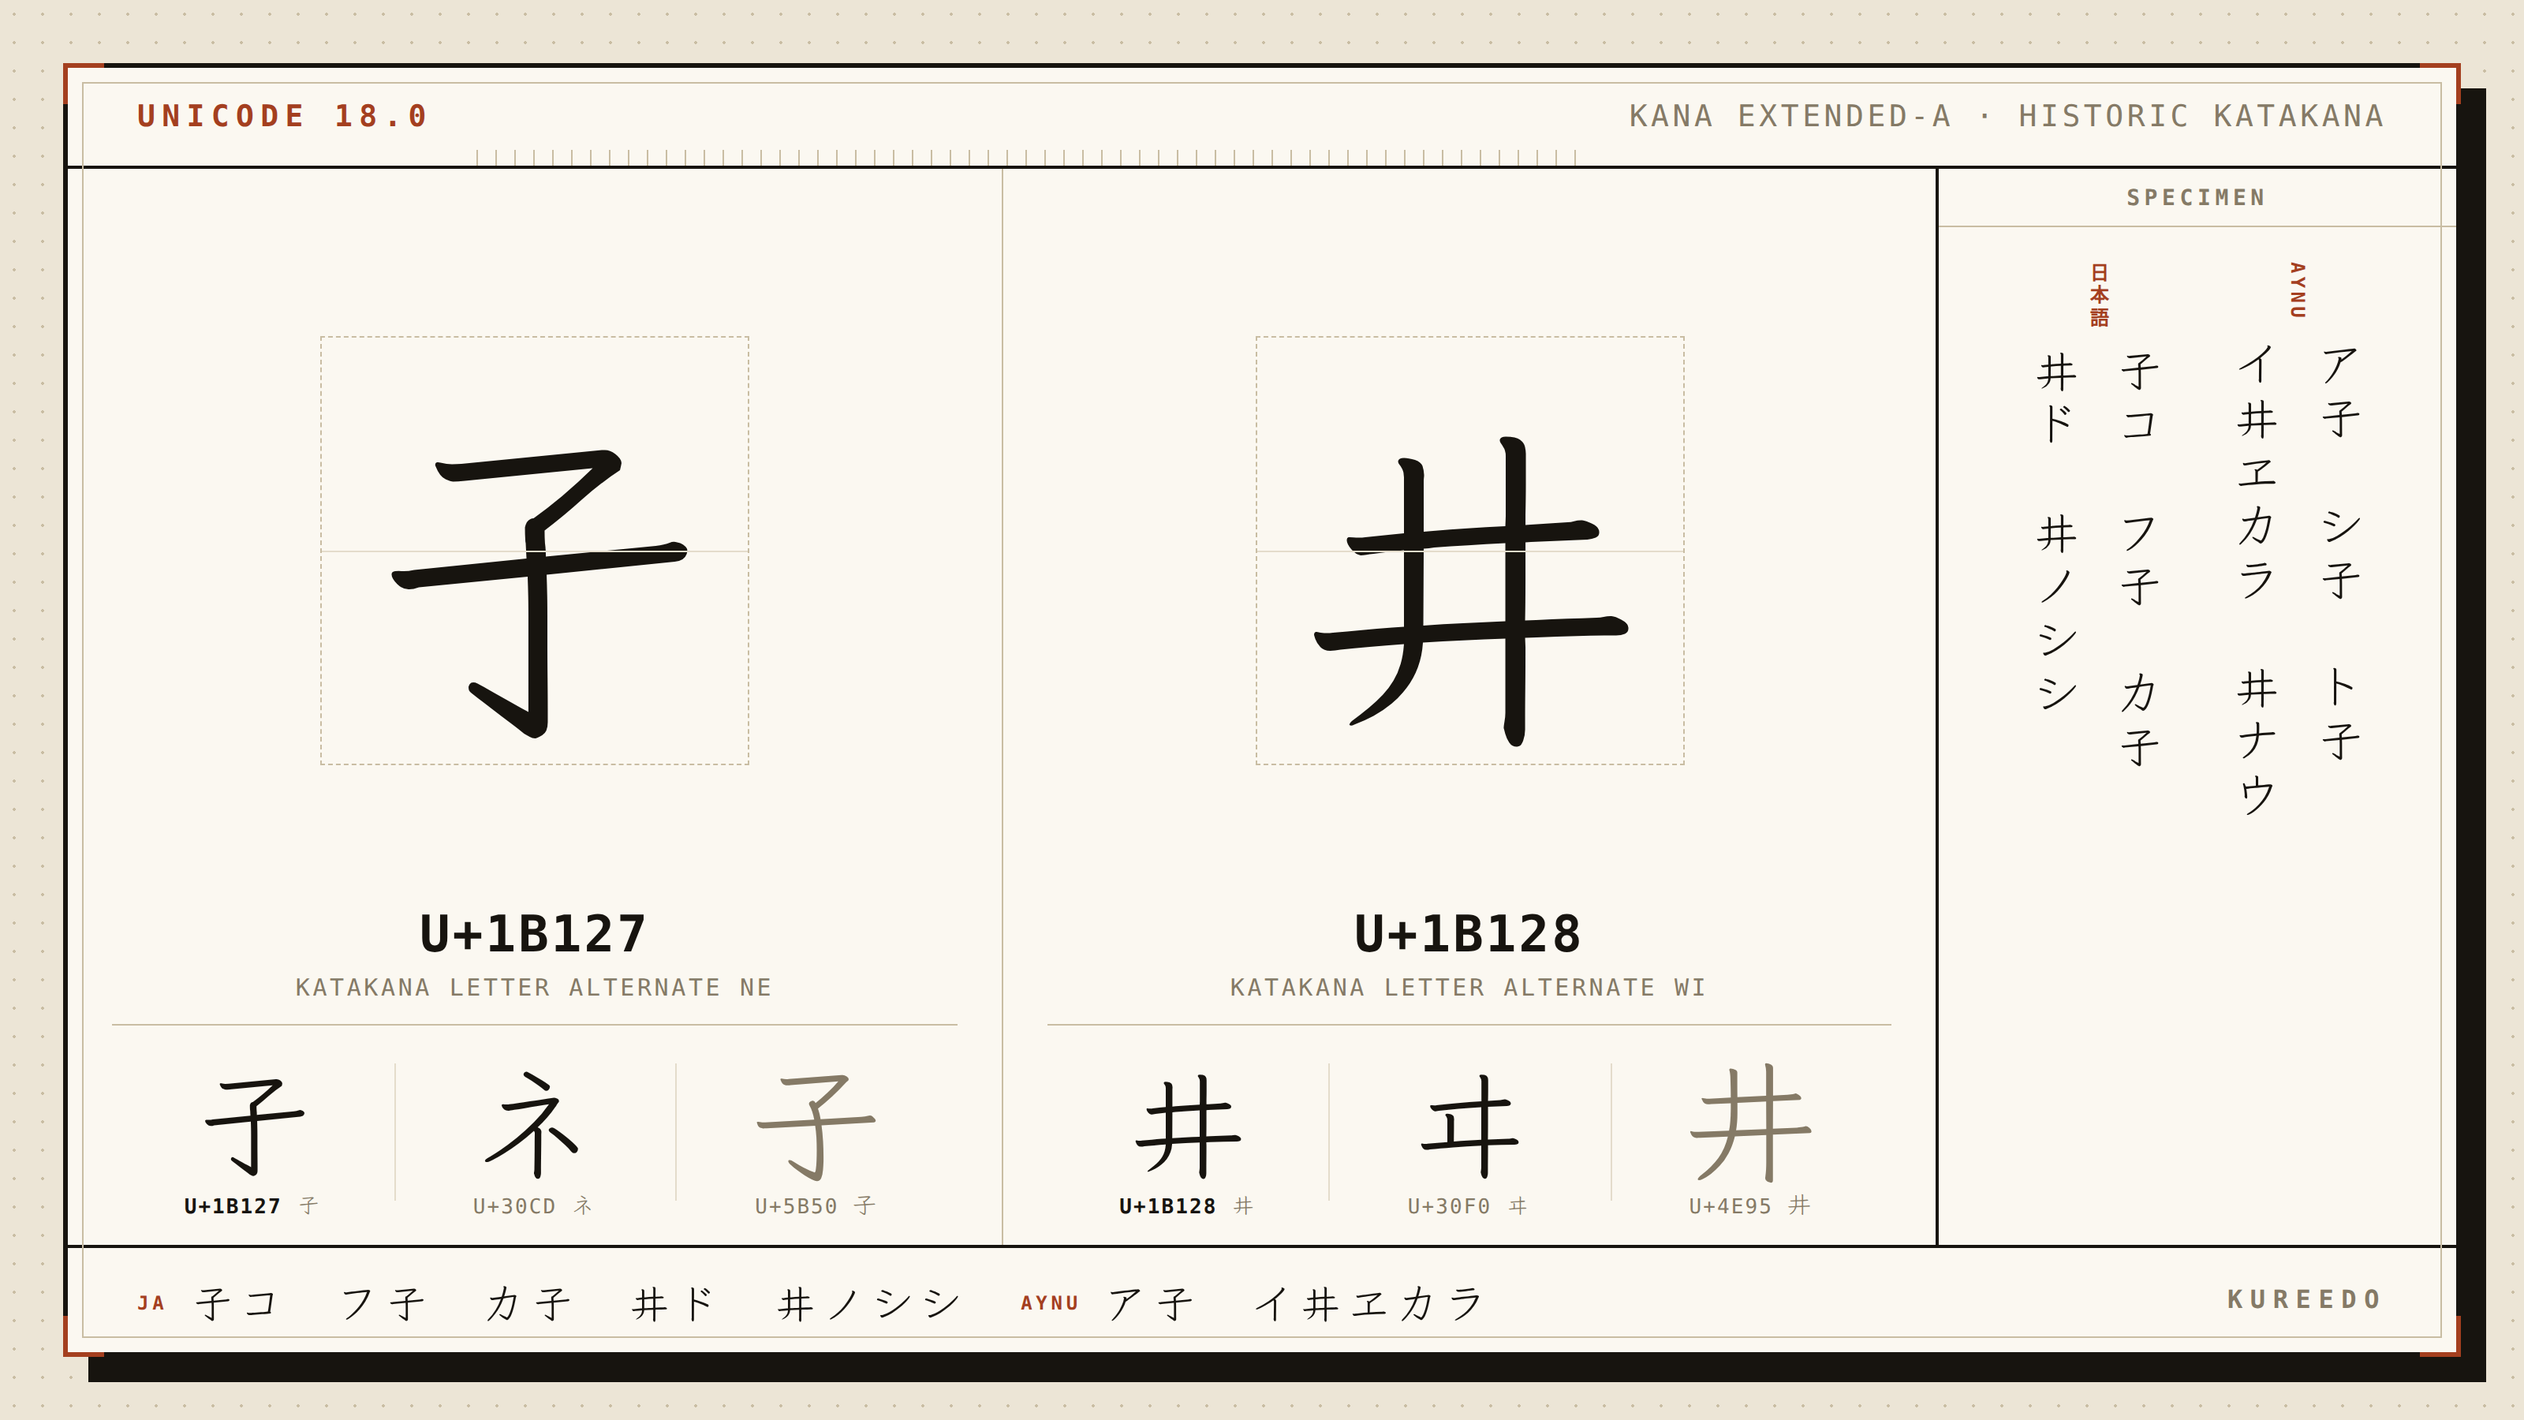
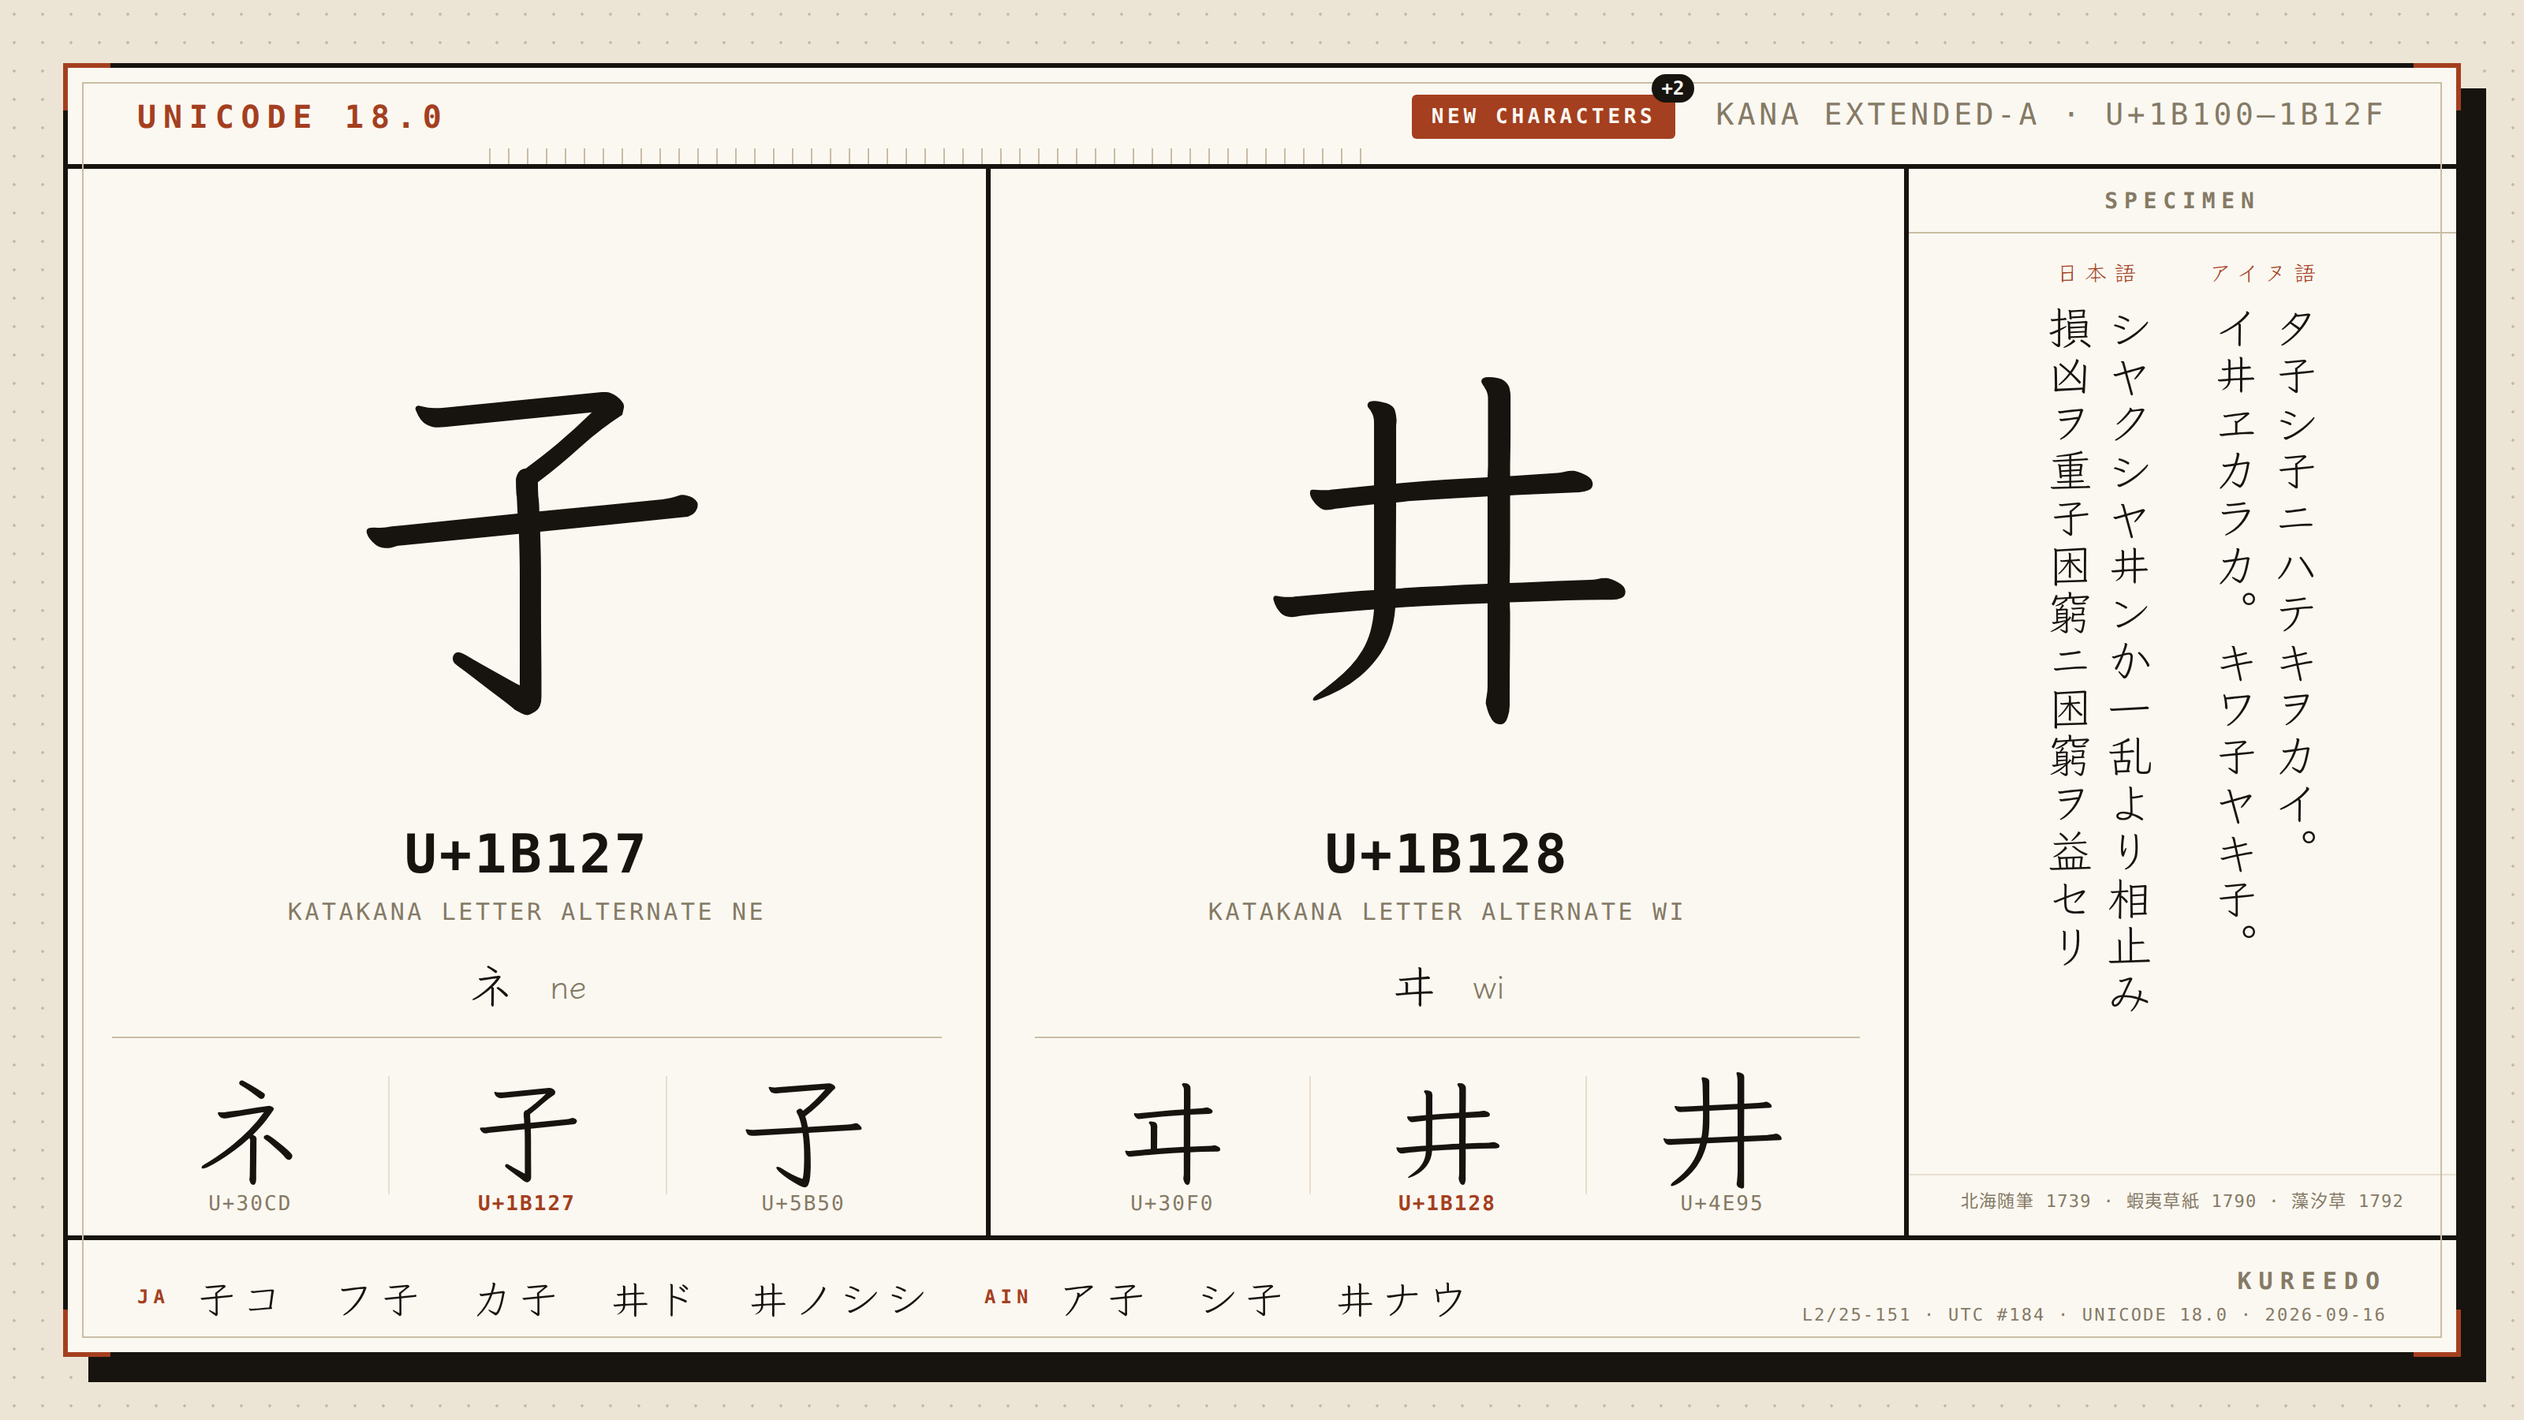
docs: card v4 with excerpts from 北海随筆 and 蝦夷草紙

diff --git a/docs/images/unicode18-card.html b/docs/images/unicode18-card.html
@@ -2,79 +2,84 @@
 <meta charset="utf-8">
 <style>
   @font-face { font-family: KF; src: url("../../fonts/Kureedo-Regular.ttf") format("truetype"); }
-  :root { --ink: #17140f; --paper: #ece5d6; --card: #fbf8f1; --rule: #c9bda3; --rule2: #e4dccb; --accent: #a43f1f; --muted: #857a66; }
+  :root { --ink: #17140f; --paper: #ece5d6; --card: #fbf8f1; --rule: #c9bda3; --rule2: #e6dfd0; --accent: #a43f1f; --muted: #857a66; }
   * { box-sizing: border-box; }
   body { margin: 0; width: 1600px; height: 900px; background: var(--paper); display: flex; align-items: center; justify-content: center; color: var(--ink); font-family: KF, serif;
          background-image: radial-gradient(var(--rule) .9px, transparent 1px); background-size: 18px 18px; }
-  .frame { width: 1520px; height: 820px; background: var(--card); border: 3px solid var(--ink); position: relative; box-shadow: 16px 16px 0 var(--ink); display: grid; grid-template-rows: 64px 1fr 68px; }
+  .frame { width: 1520px; height: 820px; background: var(--card); border: 3px solid var(--ink); position: relative; box-shadow: 16px 16px 0 var(--ink); display: grid; grid-template-rows: 64px 676px 74px; }
   .frame::before { content: ""; position: absolute; inset: 9px; border: 1px solid var(--rule); pointer-events: none; }
-  .corner { position: absolute; width: 26px; height: 26px; border: 3px solid var(--accent); pointer-events: none; }
+  .corner { position: absolute; width: 30px; height: 30px; border: 3px solid var(--accent); pointer-events: none; z-index: 2; }
   .c1 { top: -3px; left: -3px; border-right: 0; border-bottom: 0; } .c2 { top: -3px; right: -3px; border-left: 0; border-bottom: 0; }
   .c3 { bottom: -3px; left: -3px; border-right: 0; border-top: 0; } .c4 { bottom: -3px; right: -3px; border-left: 0; border-top: 0; }
-  .bar { display: flex; align-items: center; justify-content: space-between; padding: 0 44px; font: 600 19px/1 ui-monospace, monospace; letter-spacing: .22em; }
-  .top { border-bottom: 2px solid var(--ink); color: var(--accent); }
-  .top .mid { color: var(--muted); font-weight: 500; letter-spacing: .12em; }
-  .top .ticks { flex: 1; height: 10px; margin: 0 28px; background: repeating-linear-gradient(90deg, var(--rule) 0 1px, transparent 1px 12px); align-self: end; margin-bottom: 0; }
-  .bot { border-top: 2px solid var(--ink); }
-  .body { display: grid; grid-template-columns: 1fr 1fr 330px; }
-  .char { display: grid; grid-template-rows: 1fr auto auto; padding: 16px 28px 14px; position: relative; }
-  .char + .char { border-left: 1px solid var(--rule); }
-  .g { font-size: 250px; line-height: 1; display: flex; align-items: center; justify-content: center; position: relative; }
-  .g::before { content: ""; position: absolute; width: 270px; height: 270px; border: 1px dashed var(--rule); }
-  .g::after { content: ""; position: absolute; width: 270px; height: 1px; background: var(--rule2); }
+  .mono { font-family: ui-monospace, "SFMono-Regular", Menlo, monospace; }
+  .top { display: flex; align-items: center; padding: 0 44px; border-bottom: 3px solid var(--ink); gap: 26px; }
+  .top .ver { font: 600 20px/1 ui-monospace, monospace; letter-spacing: .22em; color: var(--accent); }
+  .top .ticks { flex: 1; height: 10px; background: repeating-linear-gradient(90deg, var(--rule) 0 1px, transparent 1px 12px); align-self: end; }
+  .badge { font: 700 13px/1 ui-monospace, monospace; letter-spacing: .18em; color: var(--card); background: var(--accent); padding: 8px 12px 7px; border-radius: 3px; position: relative; }
+  .badge::after { content: "+2"; position: absolute; top: -13px; right: -12px; background: var(--ink); color: var(--card); font-size: 12px; padding: 3px 6px; border-radius: 10px; letter-spacing: 0; }
+  .top .blk { font: 500 19px/1 ui-monospace, monospace; letter-spacing: .12em; color: var(--muted); }
+  .body { display: grid; grid-template-columns: 1fr 1fr 350px; min-height: 0; }
+  .char, .side { min-height: 0; overflow: hidden; }
+  .char { display: grid; grid-template-rows: 1fr auto auto; padding: 8px 28px 10px; }
+  .char + .char { border-left: 3px solid var(--ink); }
+  .g { font-size: 280px; line-height: 1; display: flex; align-items: center; justify-content: center; min-height: 0; }
   .meta { text-align: center; padding-bottom: 12px; }
-  .cp { font: 700 32px/1 ui-monospace, monospace; letter-spacing: .05em; }
-  .nm { font: 500 15px/1.4 ui-monospace, monospace; color: var(--muted); letter-spacing: .12em; margin-top: 8px; }
-  .cmp { display: grid; grid-template-columns: repeat(3, 1fr); border-top: 1px solid var(--rule); padding-top: 10px; text-align: center; }
+  .cp { font: 700 34px/1 ui-monospace, monospace; letter-spacing: .05em; }
+  .nm { font: 500 15px/1.4 ui-monospace, monospace; color: var(--muted); letter-spacing: .12em; margin-top: 9px; }
+  .eq { margin-top: 10px; font-size: 21px; color: var(--muted); }
+  .eq b { font-size: 32px; color: var(--ink); font-weight: 400; vertical-align: -3px; }
+  .cmp { display: grid; grid-template-columns: repeat(3, 1fr); border-top: 1px solid var(--rule); padding-top: 8px; text-align: center; }
   .cmp div { position: relative; }
-  .cmp div + div::before { content: ""; position: absolute; left: 0; top: 14px; bottom: 14px; border-left: 1px solid var(--rule2); }
-  .cmp .k { font-size: 84px; line-height: 1.1; }
-  .cmp .k.kj { color: var(--muted); }
-  .cmp .l { font: 500 13px/1.3 ui-monospace, monospace, KF; color: var(--muted); letter-spacing: .08em; }
-  .cmp .l i { font: 400 15px KF, serif; }
-  .cmp .l b { color: var(--ink); font-weight: 700; }
-  .side { border-left: 2px solid var(--ink); display: grid; grid-template-rows: auto 1fr; }
-  .side h3 { margin: 0; padding: 12px 0 10px; text-align: center; font: 600 14px/1 ui-monospace, monospace; letter-spacing: .2em; color: var(--muted); border-bottom: 1px solid var(--rule); }
-  .cols { display: flex; justify-content: center; gap: 22px; padding: 22px 0 0; }
+  .cmp div + div::before { content: ""; position: absolute; left: 0; top: 16px; bottom: 16px; border-left: 1px solid var(--rule2); }
+  .cmp .k { font-size: 82px; line-height: 1.1; }
+  .cmp .l { font: 500 13px/1.3 ui-monospace, monospace; color: var(--muted); letter-spacing: .08em; }
+  .cmp .l.new { color: var(--accent); font-weight: 700; }
+  .side { border-left: 3px solid var(--ink); display: grid; grid-template-rows: auto 1fr auto; }
+  .side h3 { margin: 0; padding: 14px 0 12px; text-align: center; font: 600 14px/1 ui-monospace, monospace; letter-spacing: .28em; color: var(--muted); border-bottom: 1px solid var(--rule); }
+  .cols { display: flex; justify-content: center; gap: 30px; padding: 14px 12px 6px; }
   .col { display: flex; flex-direction: column; align-items: center; gap: 10px; }
-  .col .tag { font: 600 12px/1 ui-monospace, monospace; letter-spacing: .18em; color: var(--accent); writing-mode: vertical-rl; }
-  .col p { writing-mode: vertical-rl; font-size: 31px; line-height: 1.7; margin: 0; letter-spacing: .1em; height: 540px; }
-  .bot .s { font: 400 28px KF, serif; letter-spacing: .1em; }
-  .bot .s small { font: 600 12px/1 ui-monospace, monospace; letter-spacing: .2em; color: var(--accent); margin-right: 14px; vertical-align: 6px; }
-  .bot .brand { font: 600 16px/1 ui-monospace, monospace; letter-spacing: .3em; color: var(--muted); }
+  .col .tag { font-size: 14px; letter-spacing: .3em; color: var(--accent); }
+  .col p { writing-mode: vertical-rl; font-size: 29px; line-height: 1.3; margin: 0; letter-spacing: .04em; height: 540px; }
+  .src { font: 500 11px/1.6 ui-monospace, monospace; color: var(--muted); letter-spacing: .06em; text-align: center; padding: 0 12px 12px; border-top: 1px solid var(--rule2); padding-top: 8px; }
+  .bot { display: grid; grid-template-columns: 1fr 390px; align-items: center; padding: 0 44px; border-top: 3px solid var(--ink); overflow: hidden; }
+  .bot .s { font-size: 27px; letter-spacing: .08em; white-space: nowrap; }
+  .bot .s small { font: 600 12px/1 ui-monospace, monospace; letter-spacing: .25em; color: var(--accent); margin-right: 16px; vertical-align: 7px; }
+  .bot .note { font: 500 11px/1.5 ui-monospace, monospace; letter-spacing: .1em; color: var(--muted); text-align: right; }
+  .bot .note b { display: block; font-size: 15px; letter-spacing: .3em; color: var(--muted); margin-bottom: 3px; }
 </style>
 <div class="frame">
   <span class="corner c1"></span><span class="corner c2"></span><span class="corner c3"></span><span class="corner c4"></span>
-  <div class="bar top"><span>UNICODE 18.0</span><span class="ticks"></span><span class="mid">KANA EXTENDED-A · HISTORIC KATAKANA</span></div>
+  <div class="top"><span class="ver">UNICODE 18.0</span><span class="ticks"></span><span class="badge">NEW CHARACTERS</span><span class="blk">KANA EXTENDED-A · U+1B100–1B12F</span></div>
   <div class="body">
     <div class="char">
       <div class="g">&#x1B127;</div>
-      <div class="meta"><div class="cp">U+1B127</div><div class="nm">KATAKANA LETTER ALTERNATE NE</div></div>
+      <div class="meta"><div class="cp">U+1B127</div><div class="nm">KATAKANA LETTER ALTERNATE NE</div><div class="eq"><b>ネ</b>　ne</div></div>
       <div class="cmp">
-        <div><div class="k">&#x1B127;</div><div class="l"><b>U+1B127</b> <i>&#x1B127;</i></div></div>
-        <div><div class="k">ネ</div><div class="l">U+30CD <i>ネ</i></div></div>
-        <div><div class="k kj">子</div><div class="l">U+5B50 <i>子</i></div></div>
+        <div><div class="k">ネ</div><div class="l">U+30CD</div></div>
+        <div><div class="k">&#x1B127;</div><div class="l new">U+1B127</div></div>
+        <div><div class="k">子</div><div class="l">U+5B50</div></div>
       </div>
     </div>
     <div class="char">
       <div class="g">&#x1B128;</div>
-      <div class="meta"><div class="cp">U+1B128</div><div class="nm">KATAKANA LETTER ALTERNATE WI</div></div>
+      <div class="meta"><div class="cp">U+1B128</div><div class="nm">KATAKANA LETTER ALTERNATE WI</div><div class="eq"><b>ヰ</b>　wi</div></div>
       <div class="cmp">
-        <div><div class="k">&#x1B128;</div><div class="l"><b>U+1B128</b> <i>&#x1B128;</i></div></div>
-        <div><div class="k">ヰ</div><div class="l">U+30F0 <i>ヰ</i></div></div>
-        <div><div class="k kj">井</div><div class="l">U+4E95 <i>井</i></div></div>
+        <div><div class="k">ヰ</div><div class="l">U+30F0</div></div>
+        <div><div class="k">&#x1B128;</div><div class="l new">U+1B128</div></div>
+        <div><div class="k">井</div><div class="l">U+4E95</div></div>
       </div>
     </div>
     <div class="side">
       <h3>SPECIMEN</h3>
       <div class="cols">
-        <div class="col"><span class="tag">日本語</span><p>&#x1B127;コ　フ&#x1B127;　カ&#x1B127;<br>&#x1B128;ド　&#x1B128;ノシシ</p></div>
-        <div class="col"><span class="tag">AYNU</span><p>ア&#x1B127;　シ&#x1B127;　ト&#x1B127;<br>イ&#x1B128;ヱカラ　&#x1B128;ナウ</p></div>
+        <div class="col"><span class="tag">日本語</span><p>シヤクシヤ&#x1B128;ンか一乱より相止み<br>損凶ヲ重&#x1B127;困窮ニ困窮ヲ益セリ</p></div>
+        <div class="col"><span class="tag">アイヌ語</span><p>タ&#x1B127;シ&#x1B127;ニハテキヲカイ。<br>イ&#x1B128;ヱカラカ。キワ&#x1B127;ヤキ&#x1B127;。</p></div>
       </div>
+      <div class="src">北海随筆 1739 · 蝦夷草紙 1790 · 藻汐草 1792</div>
     </div>
   </div>
-  <div class="bar bot">
-    <span class="s"><small>JA</small>&#x1B127;コ　フ&#x1B127;　カ&#x1B127;　&#x1B128;ド　&#x1B128;ノシシ<small style="margin-left:34px">AYNU</small>ア&#x1B127;　イ&#x1B128;ヱカラ</span>
-    <span class="brand">KUREEDO</span>
+  <div class="bot">
+    <span class="s"><small>JA</small>&#x1B127;コ　フ&#x1B127;　カ&#x1B127;　&#x1B128;ド　&#x1B128;ノシシ<small style="margin-left:34px">AIN</small>ア&#x1B127;　シ&#x1B127;　&#x1B128;ナウ</span>
+    <span class="note"><b>KUREEDO</b>L2/25-151 · UTC #184 · UNICODE 18.0 · 2026-09-16</span>
   </div>
 </div>

diff --git a/site/public/index.html b/site/public/index.html
@@ -196,7 +196,7 @@
     <p class="en">版本のネは字源の子の骨格を、ヰは井の枠をそのまま保つ。The printed ネ keeps the skeleton of its source 子; the printed ヰ keeps the full 井 frame. They are separate letters from 子 and 井 and have no decomposition to ネ or ヰ.</p>
     <figure>
       <img src="/images/unicode18-card.png" width="3200" height="1800" alt="Unicode 18.0 Kana Extended-A: 𛄧 U+1B127 KATAKANA LETTER ALTERNATE NE and 𛄨 U+1B128 KATAKANA LETTER ALTERNATE WI, shown large beside ネ・子 and ヰ・井, with Japanese and Ainu specimen words">
-      <figcaption>Unicode 18.0 Kana Extended-A · Historic Katakana</figcaption>
+      <figcaption>Unicode 18.0 · Kana Extended-A U+1B100–1B12F</figcaption>
     </figure>
   </section>
 
